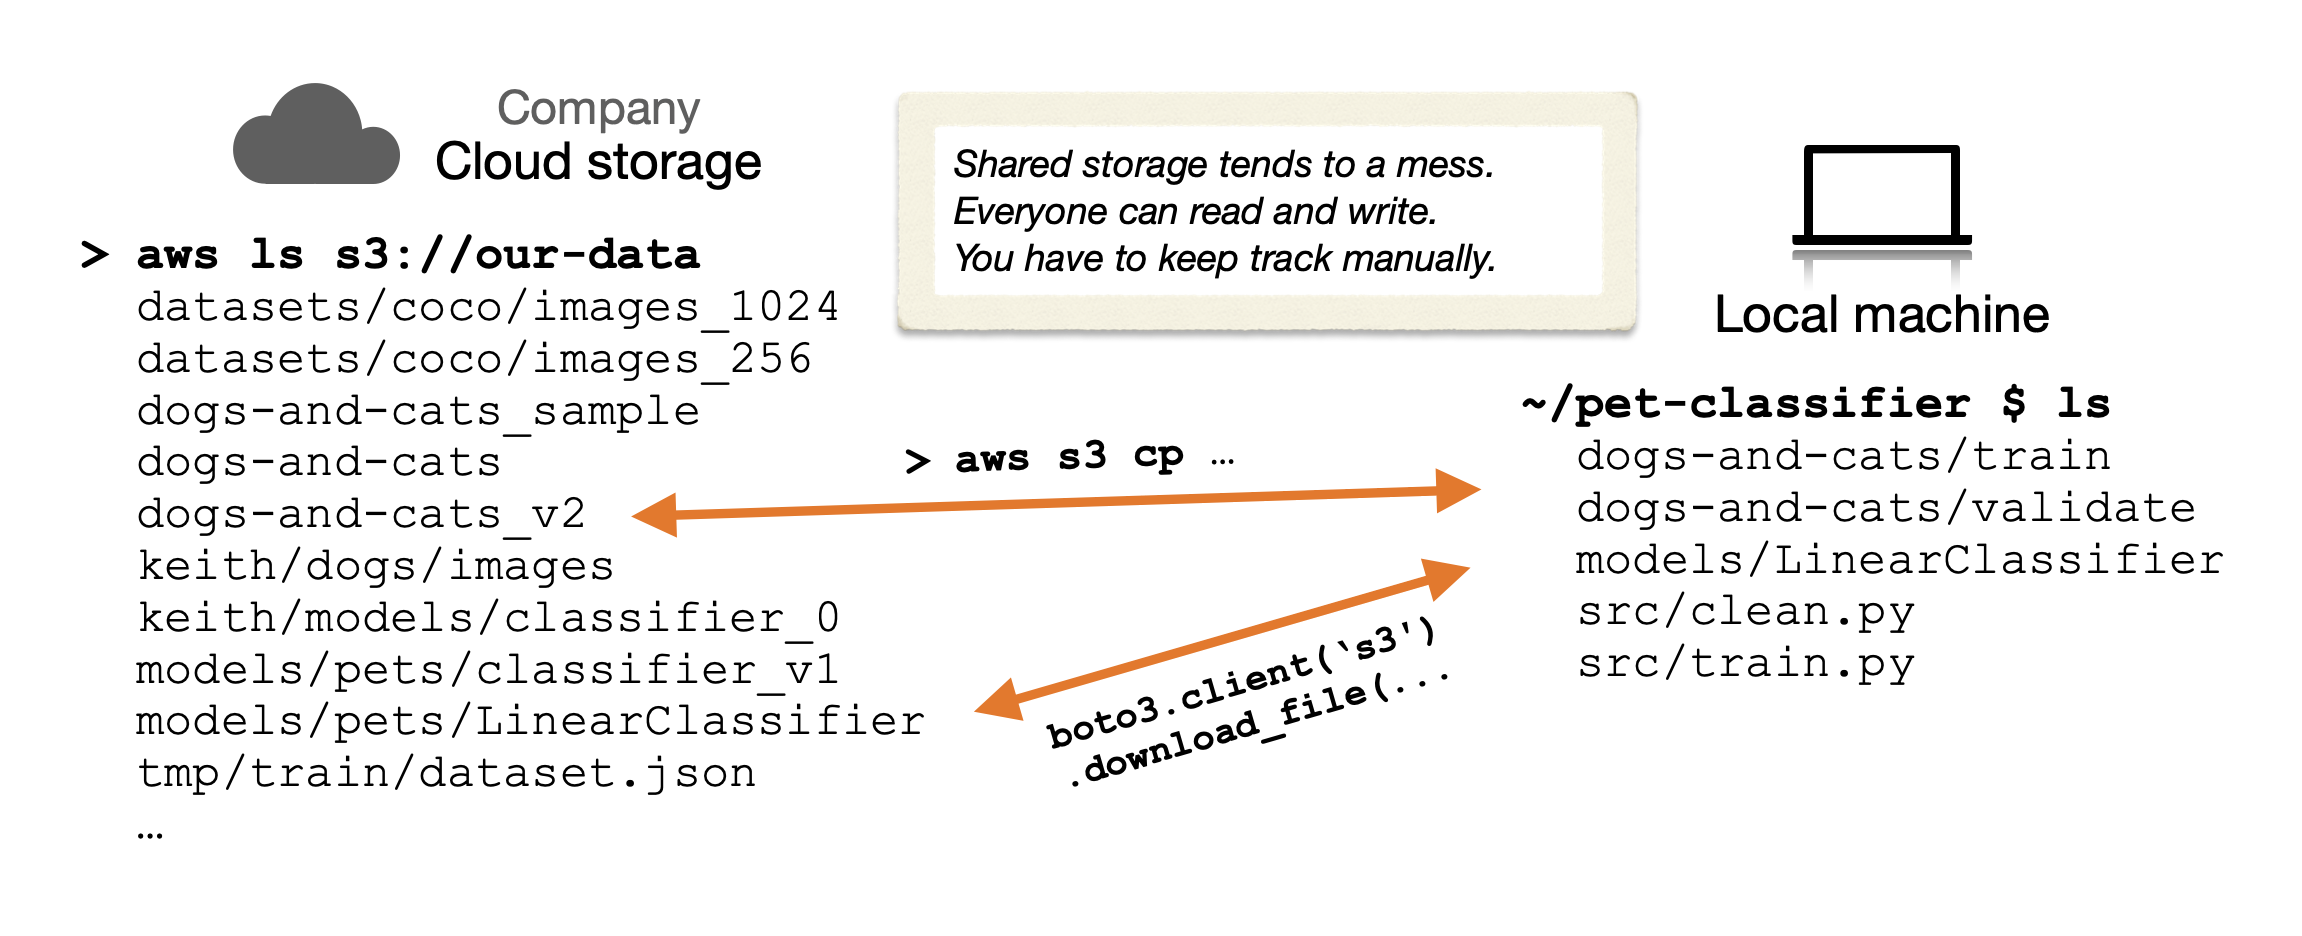
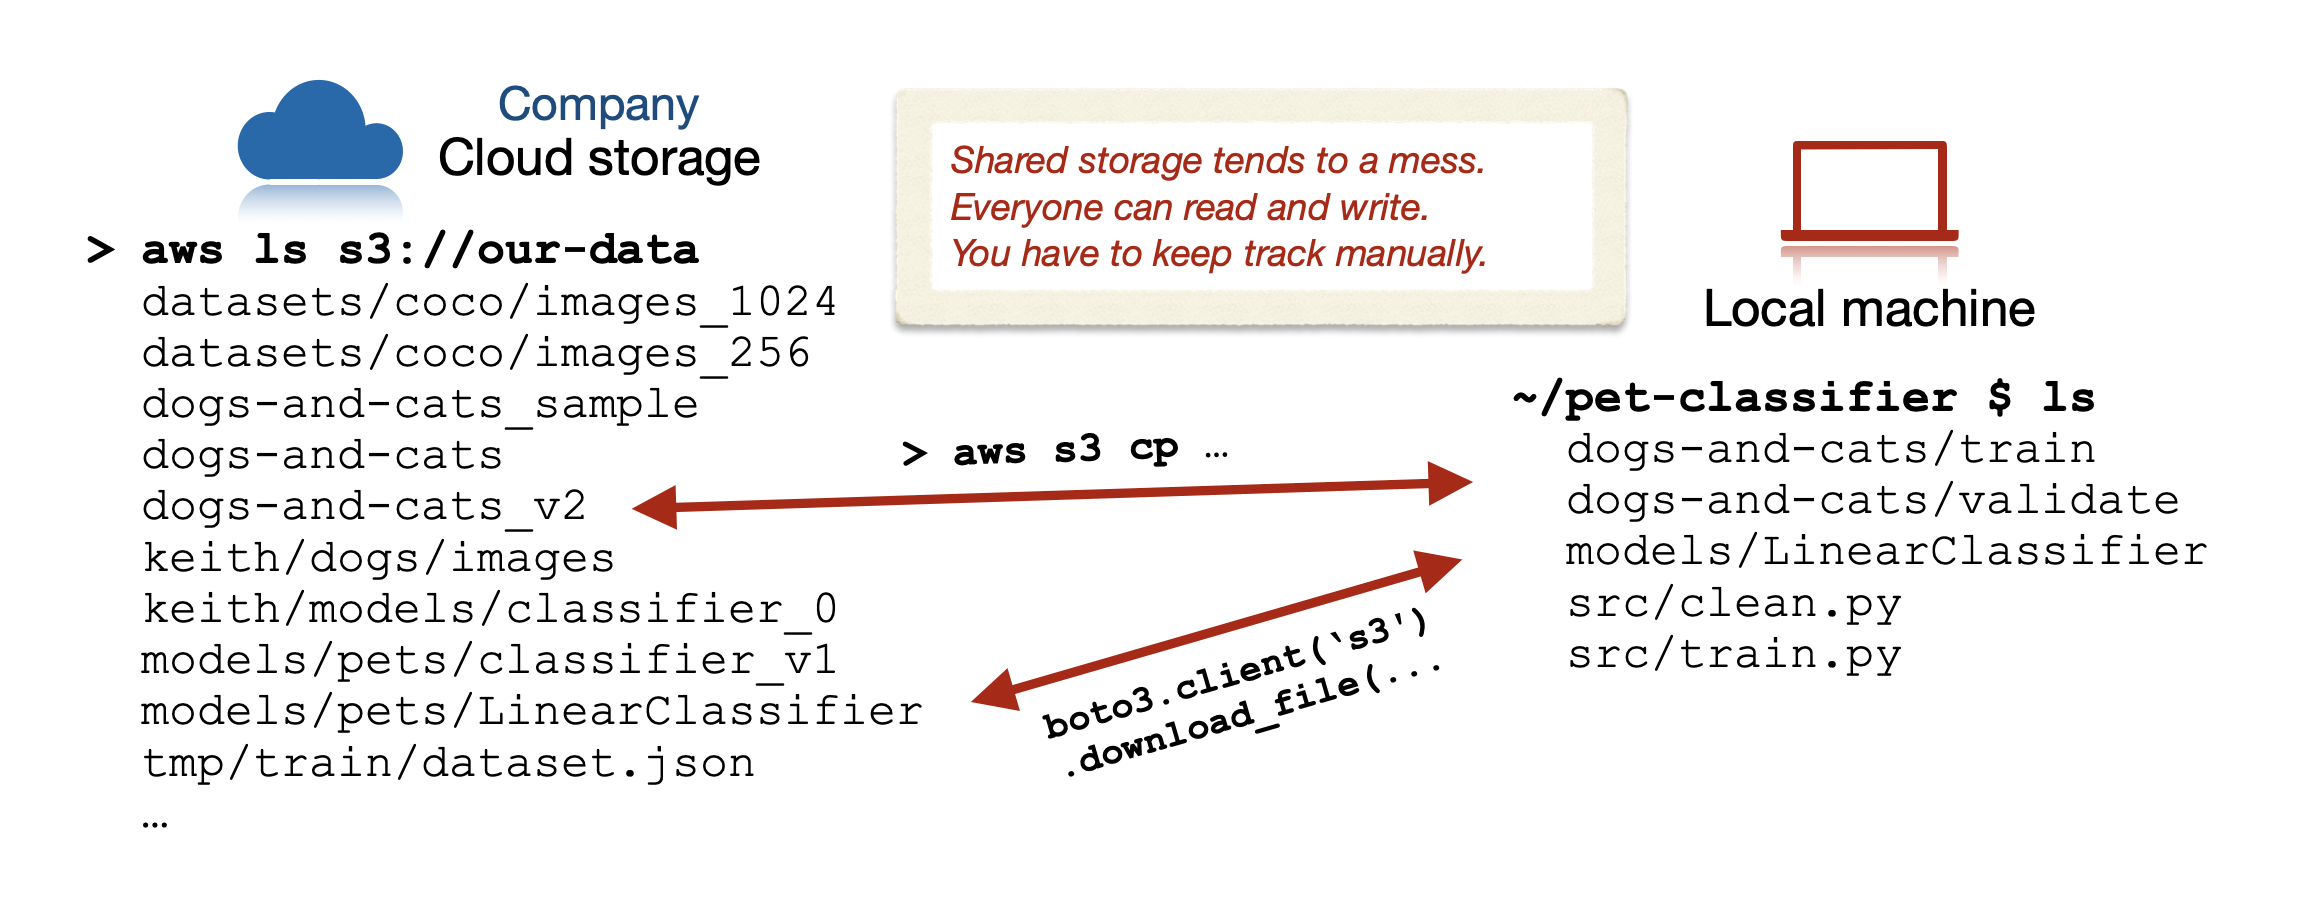
guide: more updates to text and figure styles,
esp. to the first half
and comment some stuff out (temporary)

diff --git a/content/docs/user-guide/data-management/index.md b/content/docs/user-guide/data-management/index.md
@@ -9,52 +9,61 @@ your team will face. But as time progresses, unnecessary files may end up
 scattered throughout multiple buckets and folders. Overlapping contents cause
 data leakage and inefficient storage. The project evolution is not easily to
 track, so multiple data versions coexist (error-prone and not secure). What was
-the name of the best model? Will others be able to reproduce your results?
+the name of the best model? Can others reproduce your results?
 
-![Direct storage access](/img/direct_access_storage.png) _Managing code, data,
-and models manually does not scale: The S3 bucket on the left is shared by
-various people and projects; The user on the right needs to know the exact
-location of the correct files, and uses cloud-specific tools (e.g. AWS CLI) to
-access them directly._
+![Direct storage access](/img/direct_access_storage.png) _The S3 bucket on the
+left is shared by several people and projects; The user on the right needs to
+know the exact location of the correct files, and uses cloud-specific tools
+(e.g. AWS CLI) to access them directly._
 
-DVC gives your data stores a structure, helping you take control of existing
-[storage platforms]. It maintains visibility over all your data and helps secure
-its access.
+DVC gives your data stores a clean structure, helping you take control of your
+existing storage platform. This provides visibility over your data and helps
+secure its access.
 
-![DVC data access](/img/dvc_managed_storage.png) _DVC captures the structure of
-your datasets in a code repository, which can be versioned with Git. The storage
-(left) can now be reorganized to eliminate duplication; You access data with
-`dvc` (multi-cloud support) -- it checks the metadata to locate files in both
-sides._
+![DVC data access](/img/dvc_managed_storage.png) _DVC captures information about
+your data in a Git repository. Shared storage (left) can now be organized
+efficiently; You access data using `dvc` (multi-cloud support)._
 
-DVC lets you describe the entire <abbr>project</abbr> in a Git repository, so
-you can go back to any previous state and find the right data, code, parameters,
-etc. used at that time. In other words: [data versioning] guarantees [ML
-reproducibility].
+DVC saves you the hassle of storing and renaming every data object and their
+versions. It makes sure not to save duplicated file and uses Git's immutable
+history to prevent deleting relevant assets, so sharing your storage is not a
+problem. Your work is made more portable with [multiple storage provider]
+support. And your team collaboration can improve with Git.
 
-This requires a few key changes to your workflow:
+[multiple storage provider]:
+  /doc/command-reference/remote/add#supported-storage-types
+
+To get there, a few key changes to your workflow are required:
 
 1. Data and models must be registered in a code repository (typically on Git).
 1. Stored objects are [reorganized] by DVC (not intended for manual handling).
 1. Data operations (drop, update, transfer, etc.) happen indirectly -- through
    the repo.
 
-[storage platforms]: /doc/command-reference/remote/add#supported-storage-types
-[data versioning]: /doc/use-cases/versioning-data-and-models
-[ml reproducibility]: /doc/user-guide/pipelines
 [reorganized]:
   /doc/user-guide/project-structure/internal-files#structure-of-the-cache-directory
 
-## How it works
+## Details & Benefits
+
+<!--
+DVC lets you describe the entire <abbr>project</abbr> in a Git repository, so
+you can go back to any previous state and find the right data, code, parameters,
+etc. used at that time. In other words: [data versioning] guarantees [ML
+reproducibility].
+
+[data versioning]: /doc/use-cases/versioning-data-and-models
+[ml reproducibility]: /doc/user-guide/pipelines
+-->
+
+<!-- it checks the metadata to locate files in both sides -->
 
 <abbr>DVC repositories</abbr> contain [metafiles] (e.g. `data.dvc`) that act as
-pointers, [linking]? to your data files and directories. This keeps your project
-folder small and comprised mainly of text-like code and configuration files you
-can [version with Git] normally. DVC moves your assets (large files, binaries,
-etc.) to a content-addressable <abbr>cache</abbr>, eliminating any duplicates.
+pointers to your data files and directories. This keeps your project folder
+small and comprised mainly of text-like code and configuration files you can
+[version with Git] normally. DVC moves your assets (large files, binaries, etc.)
+to a content-addressable <abbr>cache</abbr>, eliminating any duplicates.
 
 [metafiles]: /doc/user-guide/project-structure
-[linking]: /doc/user-guide/data-management/large-dataset-optimization
 [register]: /doc/command-reference/add
 [generate]: /doc/command-reference/repro
 [version with git]:
@@ -83,19 +92,11 @@ automatically by `dvc` operations).
 
 Now that your data is tracked by DVC (and its code with Git) there's no need to
 come up with special file names or directory structures to handle dataset
-variations -- you can use [Git branching] instead. This keeps your project clean
-and manageable at any scale.
-
-[git branching]:
-  https://git-scm.com/book/en/v2/Git-Branching-Basic-Branching-and-Merging
+variations. This keeps your project clean and manageable at any scale.
 
 <!-- Sample code/terminal blocks... -->
 
-The built-in cache included in every <abbr>DVC project</abbr> isolates your
-project logic from storage needs. Files are renamed and [reorganized] based on
-their contents (using simple hashes) to flatten any directory structure and
-prevent duplication.
-
+<!--
 The cache is the first storage layer for you and your team to share and
 collaborate, but more can be defined in DVC [config files] (using `dvc remote`
 commands). These storage locations let you back up and share data, features, ML
@@ -104,10 +105,9 @@ Microsoft Azure, among [many more].
 
 [config files]: /doc/user-guide/project-structure/internal-files
 [many more]: /doc/command-reference/remote/add#supported-storage-types
+-->
 
-## Why it's better
-
-DVC's approach has a low cost (indirect access, work with Git) and many
+DVC's approach has a low cost (indirect access, work with Git) and many more
 benefits:
 
 - Work in a small and clean <abbr>workspace</abbr> linked to one or more storage
